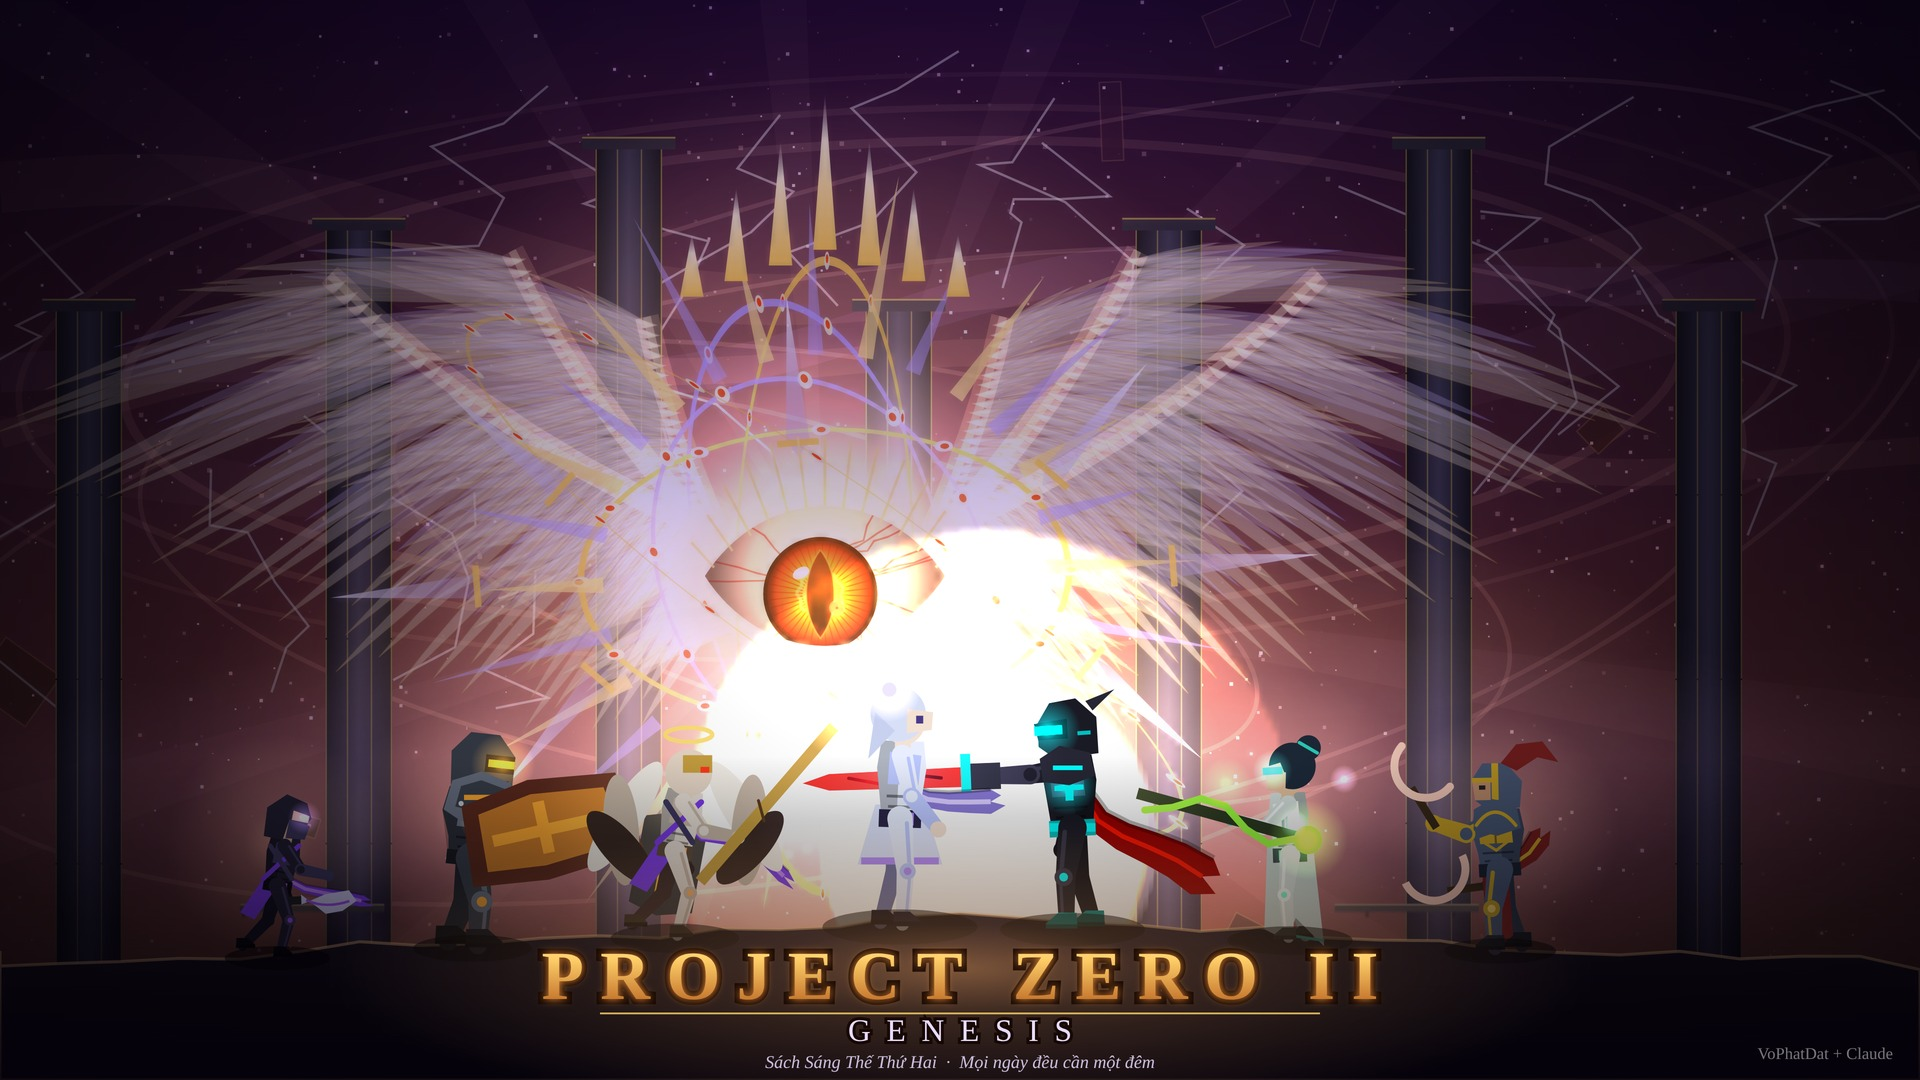
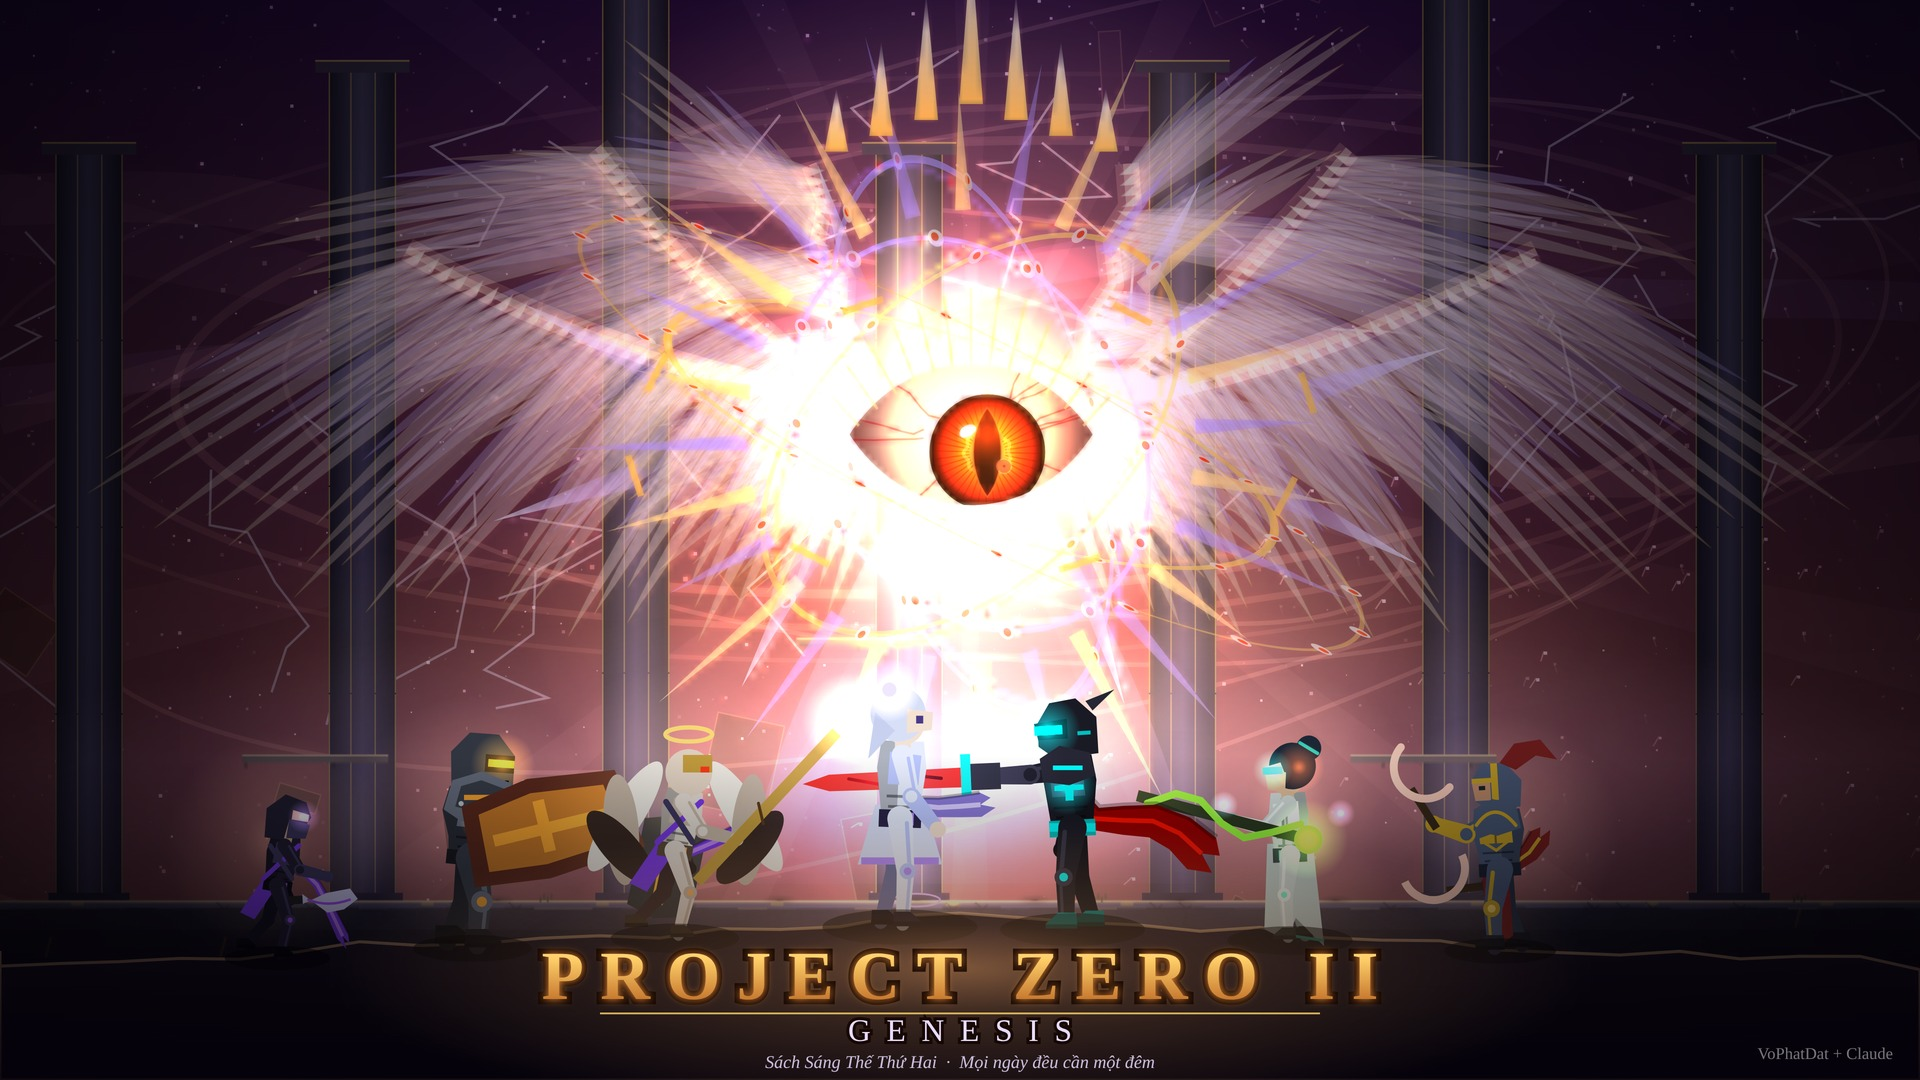
Part II key art: the god pinned to the centre
In the fight the god drifts from side to side; the key art caught it off to the left. It is now
held at the centre while its wings settle.

Claude-Session: https://claude.ai/code/session_01McqiJb9QxJmNaZYuQRVBYw

diff --git a/ProjectZero2_Genesis/tools/keyart.js b/ProjectZero2_Genesis/tools/keyart.js
@@ -28,8 +28,12 @@ const OUT = require('path').join(__dirname, '..', 'art') + '/';
     for (let i = 0; i < 40; i++) { for (const p of all) { p.x = cx + spots[order.indexOf(p.id)]; p.vx = 0; } window.__T(1); }
     for (const p of all) { p.rig.play(p.id === 'nyx' ? 'victory' : 'idle', 0); }
     for (let i = 0; i < 26; i++) { for (const p of all) { p.x = cx + spots[order.indexOf(p.id)]; p.vx = 0; p.facing = p.id === 'nyx' || p.id === 'zero' ? 1 : (p.x < cx ? 1 : -1); } G2.fx.ok || 0; window.__T(1); }
-    const z = layout === 'poster' ? .62 : .6, vw = 1280 / z, vh = 720 / z; G.cineCam = null; G.cam.zoom = z; G.cam.x = cx - vw / 2; G.cam.y = A.y - vh * .97; G.cam.tz = z;
-    for (const p of all) p.g2hide = true; Game.render(); for (const p of all) p.g2hide = false;
+    const z = layout === 'poster' ? .62 : .6, vw = 1280 / z, vh = 720 / z; G.cineCam = null; G.cam.zoom = z; G.cam.x = cx - vw / 2; G.cam.y = A.y - vh * 1.0; G.cam.tz = z;
+    for (const p of all) p.g2hide = true;
+    const tick0 = BOSSES.architect2.tick; BOSSES.architect2.tick = bb => { tick0(bb); bb.x = cx; bb.y = A.y + 40; };
+    B.x = cx; B.lastX = cx; B.wingS = null; Settings.renderScale = 1; Game.applyVideo();
+    for (let i = 0; i < 50; i++) { window.__T(1); B.x = cx; Game.render(); }
+    Settings.renderScale = W / 1280; Game.applyVideo(); B.x = cx; Game.render(); for (const p of all) p.g2hide = false;
   }, [W, H, layout]);
   // the party, large, on a ledge in front of the light
   const heroes = async (layout) => pg.evaluate((layout) => {
